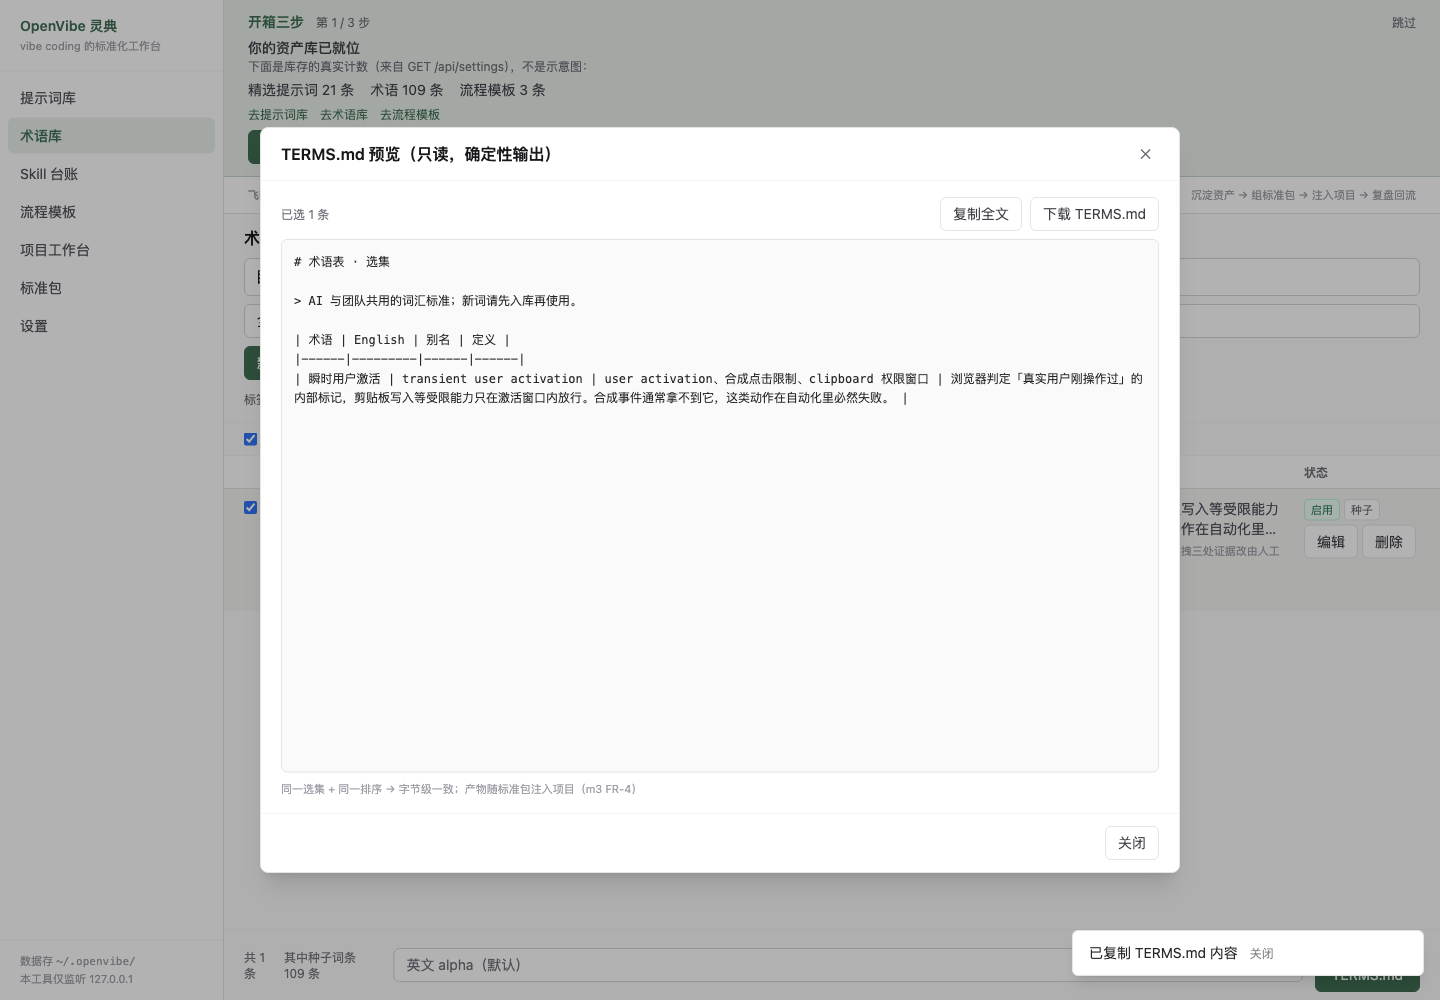
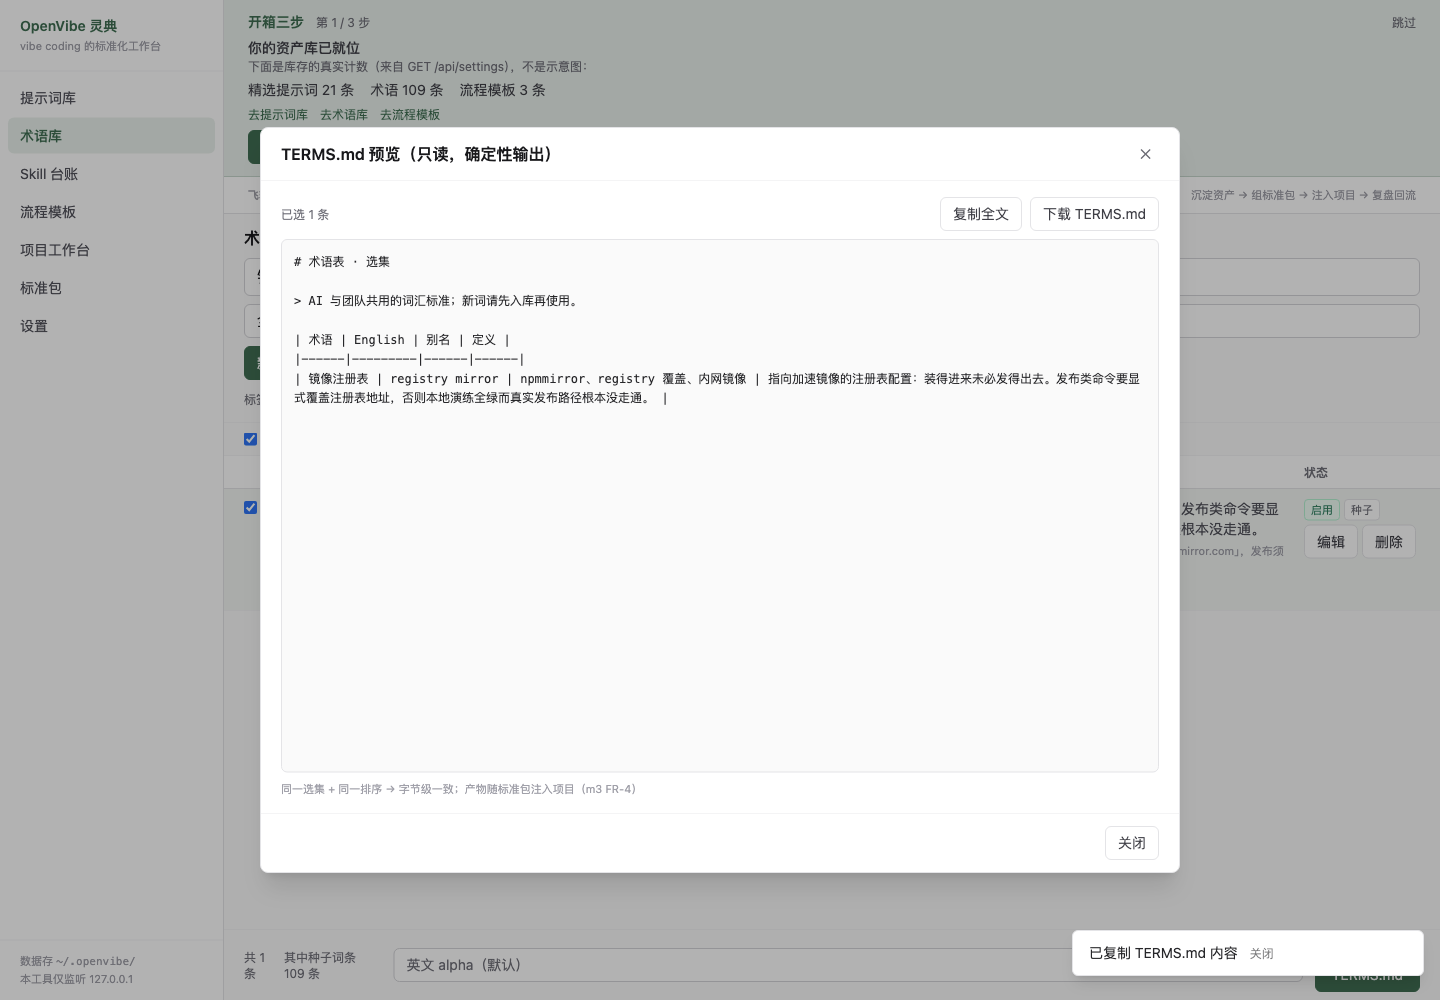
docs: DEV-0042 + 队列 ⑰ 两条收口 —— 09-23 证据在本树重砸（装包 51 断言 0 FAIL / 三条冒烟有头 FAIL=0 SKIP=0）
重砸读驱动器而不只读它的输出，抓到一件比数字要紧的事：publish-walk.mjs 钉的是「四命令齐」，
而发布说明对外写五命令 + 「退场有闸」——clean 是 T10 才有的命令，那句承诺在装包形态此前零覆盖。
补 6 支退场断言（dry-run 零写入零备份 / 真删八项并收尾 lock / 删前八份逐字节备份），45 → 51。

同时就地改掉队列 ① 行里 [DEV-0040] 已推翻却漏回单源的那句「改内容会动 golden」。

Changed region(s): [[0.1875, 0.372, 0.7812, 0.403], [0.8125, 0.496, 0.875, 0.558]]

diff --git a/DEV_LOG.md b/DEV_LOG.md
@@ -1037,3 +1037,22 @@
 - **未验证面净变化**: **净增 0，但一条旧背书被撤销、新立 ⑰**。撤销：发布说明不能再引用「三条冒烟 = 本树证据」。新立 **⑰** = 在真发布（②）之前必须重砸两件事——(a) `docs/devlog-evidence/DEV-0025/three-smokes.mjs` 在当前树重跑（有头 FAIL=0 SKIP=0），(b) `pnpm pkg:cli` + `npm pack` 的装包产物走查（现表里那 5 行仍实测于 `3e852c2`）。win32 的 8 支门控 skip 继续挂未验证面，不并入「全绿」。
 - **潜在风险**: ① **tag 已对外可见 ⇒ 以后再移就是 `git push --force refs/tags/v0.1.0`（外部、难逆）**，所以任何「tag 自带文档」的改动都必须排在推 tag 之前。② `v0.1.0` 的**语义已变**（09-23 那份 → 含 T10 的现在这份），而 `dev-plan` / `tasks.md` / PRD 里的历史行仍写「tag 在 `3e852c2`」——读作带日期的历史，不入修订。③ 本轮把「首个可安装版本」这类**前瞻性安装口径**留在了发布说明顶部，只加了「尚未 publish」的限定；真发布若再拖，`npx` 三条会一直是「发布后的用法」而不是可执行步骤。
 - **owner 手上未收的**: 队列见 `docs/decisions.md`（③ 已收，⑦ 记到第 5 次推送与第 1 次 tag 推送，新立 ⑰）。**① 的 19 行结论列仍 0 已签**；② 真 `npm publish` 需 owner 放行且被 ⑰ 挡在前面。
+
+## [DEV-0042] ⑰ 两条 09-23 证据在新树重砸（(b) 装包形态 + (a) 三条真输入冒烟）· **重砸抓到的一件比数字更要紧的事：对外承诺的「退场有闸」在装包形态此前零覆盖**
+
+- **时间**: 2026-09-26 17:50–19:05 +0800。采样凭据：起点 HEAD `c28c2b1`；本轮工作树 3 文件（驱动器 + 走查日志 + 发布说明）。
+- **类型**: §0.3 **C 级 · 零产品代码**。落点全在 `docs/`（证据驱动器、发布说明、队列单源）。**`content/seed` 一行未动**（① 等 owner 逐条签）。
+- **关联文件**: `docs/devlog-evidence/DEV-0020/publish-walk.{mjs,txt}`、`docs/devlog-evidence/DEV-0025/{three-smokes-headed.txt,0*-headed-*.png}`（⑰(a) 覆盖）、`docs/release-notes/v0.1.0.md`、`docs/decisions.md`（⑰ 两条收口、① 就地改正一句已被推翻的话）。
+- **问题描述**: owner 裁「先落 ①，再把 tag 强移到新树（一次到位）」。tag 强移与真发布 ② 的共同前置是 ⑰ 的两条重砸，其中 (b) = 装包产物证据仍实测于 `3e852c2`（2026-09-23），不重砸则「装包产物才算数」这条发布口径无法兑现；(a) = 三条真输入冒烟的 09-24 那次靠「被测构建与 v0.1.0 产品代码同源」成立，而该句已被 `[DEV-0041]` 复算证伪（差 30 个产品文件）。
+- **实现思路（三步，每步都留了复算入口）**:
+  1. **先按原样重砸，不偷改断言集**：`pnpm pkg:cli` → 驱动器复跑 → **45 项 / 0 FAIL**（17:54 那一轮）。数字与 09-23 同项数，才允许说「同一张嘴在新树又说了一遍」。
+  2. **重砸时读驱动器，不只读它的输出**：`publish-walk.mjs:271` 钉的是「**四命令齐**（serve / sync / scan / diff）」，而发布说明对外写的是**五命令 + 一句「退场有闸」**。`clean` 是 T10 才注册的命令，09-23 那支树根本没有 ⇒ **那句对外承诺在装包形态零覆盖**：仓库形态有 28 支 `CLI-CLEAN` 用例（`apps/cli/test/clean.test.ts` 的 `it()` 实测数），可 bundle 之后少内联了哪个模块，那 28 支一概测不到。
+  3. **补 6 支退场断言（45 → 51）后复跑**：五命令齐 / `clean --dry-run` 退出码 0 且 `ok=true` / 计划删 8 项且不多认（`inSyncRemoved=0`、`foreign=0`、`absent=0`）/ **dry-run 零写入零备份**（八项产物 sha256 逐字节不变 + lock 在位 + 不产生 `backup/` + `backedUpTo=null`）/ `--yes` 退出码 0 且 `exitCode=0` / 真删八项并 `cleaned=true`（lock 一并收尾）/ **删前八份逐字节备份**（备份目录内每份哈希等于删前值）。退场腿刻意排在 §4 计时**之后**，让「用户侧计时」那行仍与 09-23 可比。
+  4. **⑰(a) 同日跟跑**（同一棵树的另一半证据，不拆成两轮）：`HEADLESS=0 CDP_PORT=9351 node docs/devlog-evidence/DEV-0025/three-smokes.mjs` → 驱动器自己 `pnpm --filter @openvibe/web build`、自己起 `serve --port 0` 于 `ov-smoke-42547` 沙箱，**SM-1 / SM-2 / SM-3 三条各自独立判过，FAIL=0 SKIP=0**，末行 `# HEAD c28c2b1（工作树脏 9 文件）· Chrome headed`。三条的字节级判据各自复核：SM-1h `pbpaste` 62 字符 == 磁盘 .md 62 字符；SM-2g 复制全文后 `pbpaste` 221 字符 == 服务端 `render-terms-md` 221 字符（DOM 与 API 同源 221）；SM-3e sync 后 lock 探测**无人工点击**自动点亮。收尾断言：serve 与 Chrome 双 pid 判死、`rmSync` 后本进程沙箱不存在、**剪贴板已还原为起跑前内容**（86 字符，内容不入日志）。三张同名截图随本轮覆盖。
+- **测试验证**: 装包走查 **51 项断言 / 0 FAIL**，日志末行 `# HEAD c28c2b1（工作树脏 2 文件）`（脏 2 = 驱动器与本日志自身，如实入档）。现测锚点：`cli.js` **3,588.67 kB / 565 模块 / 0 条 esbuild 警告**（09-23：3,567.58 kB / 562 模块）、tarball 1.15 MB、`dist/seed` 播种 **terms=109**、八项产物字节与 09-23 **逐字节相同**（14525 ×4 / 14609 / 14597 / 25464 / 482 B，lock 1476 B）⇒「本轮零种子改动」由产物侧反证。入口 chunk 装包后经 HTTP 实取 **293,066 B**，与 `bundle:check` 的 293.07 kB 同值（两条独立路径对上）。`lint` 复跑 rc=0（`eslint .` 覆盖 `docs/**/*.mjs`，见 `eslint.config.js:69`）。**四闸随后在本树全部复跑，rc 全 0**：`typecheck`（双 tsconfig 各一遍）/ `test` **48 files · 449 tests · 0 skipped**（19:12）/ `seed:check`（terms ≥100、`TERMS.md` 渲染 **109 行**、templates 3/7/4、prompts 20 唯一 title）/ `bundle:check`（入口 **293.07 kB ≤ 300**、23 chunk 最大 **347.45 kB ≤ 500**）。**两条独立路径对上了**：门禁侧 `index-B0iRKJWT.js 293.07 kB` 与装包后 HTTP 实取的 `assets/index-B0iRKJWT.js 293,066 B` 同名同值。
+- **被推翻（本轮 2 条，一条差点变成假缺陷）**:
+  ① 我为验证「`clean` 到底进没进 bundle」，先拿 `grep -c` 数中文串，得 **0**，据此几乎要上报「**发布包漏打 T10 命令**」这一子虚乌有的产品缺陷。真相是**本仓 bundle 里的非 ASCII 全部被转义成大写十六进制 `\uXXXX`**（实测凭据：串内 `OpenVibe\uFF08\u7075\u5178\uFF09`；`scripts/build-cli.ts` 未设 `charset`，即 esbuild 0.28.2 的默认行为）⇒ raw 搜为空、按小写 `\u672c` 搜也为空，两次都像「东西没打进去」。改用 node 把 `\uXXXX` 解码回字符后中文串命中 1/1/2 次，`runClean` 亦在 bundle 内，缺陷不存在。**「空输出的成因」清单再添一条，且这一次它指向的是假缺陷而非假绿**（承 `[DEV-0039]` 的 `jobs[].id`、`[DEV-0040]` 的 BSD `tr`、`[DEV-0041]` 的 `gh run watch`）。
+  ② **队列 ① 行里还留着 `[DEV-0040]` 已经推翻的那句**「改内容会动 golden」。我是在给 ⑰ 写落点时读到的：上一轮的推翻落盘在 devlog 与预筛文件 4b 节，**却没有回到队列单源**。队列是 owner 裁决时逐行读的那张表——单源里留一句假话比日志里留一句更贵。已就地改成真实约束：`tests/golden/fixtures.ts` 头部声明夹具**不读 `content/seed`** ⇒ 改种子是纯 C 级；只剩 `seed:check`（去空白 ≥20 字是下限；terms 配额 ≥100 现 109 ⇒ 删预算 9 条；prompts 精确 =20 ⇒ 删 1 即红）与 `SRV-EST`（十条合计 1,725 B，服务端侧 14,890 vs 阈值 12,000）两道闸，`C-87` 的版本升位仅在发布后生效。
+- **未验证面净变化**: **⑰ 两条全收，净减一整项**。(b) 装包形态 51 断言 / 0 FAIL；(a) 三条真输入冒烟本树有头 FAIL=0 SKIP=0。发布说明「测量口径」表现在只剩 tarball 的「36 个文件 / 解包 4.9 MB」一格仍属 `3e852c2`，已就地标注为未复跑（那一格只由 `npm publish --dry-run` 出，而 dry-run 属 ② 的动作，不在本轮范围）。win32 的 8 支门控 skip 继续挂未验证面，不并入「全绿」。**新增一条自指风险**：`v0.1.0` 的 tag 正文逐字抄了「45 断言 0 FAIL」，断言数一改那句话就腐烂。
+- **潜在风险**: ① **退场腿是单向的**：走完它，沙箱里八项产物与 lock 已不在，之后任何「diff 判 clean」的断言必红。本轮把它排在计时之后、收尾之前；后来人扩腿时别往前挪。② **断言里的「8 项」随 default 包变**：包组装规则一变、或 owner 签 ① 后删掉某条资产，这个数就得跟着改。与 `SRV-EST` 同口径——**它红的时候是信号不是故障**，别顺手把断言改成 `>=`。③ **tag 正文与断言数已耦合**：下一次移 tag（owner 已裁的「强移到新树」）写正文时要么改成 51、要么按 §13-8 干脆不抄数。
+- **owner 手上未收的**: 队列见 `docs/decisions.md`（⑰ 记 (b) 落地；① 行就地改正并记下「逐条签」的裁决方式）。**① 的 19 行结论列仍 0 已签**；⑰ 只剩 (a)；`c28c2b1` 与本条所属的文档 commit **尚未推**（第 6 次推送需另行放行）。

diff --git a/docs/decisions.md b/docs/decisions.md
@@ -10,7 +10,7 @@
 
 | # | 事项 | 状态 | 现状与裁决（实测） | 落点 | 它阻塞什么 |
 |---|---|---|---|---|---|
-| ① | 种子内容审校裁决 | **待签** | 已按 owner 裁定「预筛短名单」交付：19 行（建议改 10 / 建议留 9），每条带现文·问题·建议改法·凭据。2026-09-26 13:48 现测**结论列 19 行全空 = 0 已签**。其余 47 条按「机器预筛 + owner 抽查」处理，不逐条签 | `docs/devlog-evidence/DEV-0037/seed-prescreen.md` 第 4 节；判据 `…/seed-prescreen.mjs`（可复算，基线 `6c33b50`） | `content/seed/` 的任何改动。种子内容属 C 级，但 `C-87` 记有词条与 default 包指纹耦合 ⇒ 改内容会动 golden，**改前须实测差异面并跑五闸** |
+| ① | 种子内容审校裁决 | **待签** | 已按 owner 裁定「预筛短名单」交付：19 行（建议改 10 / 建议留 9），每条带现文·问题·建议改法·凭据。2026-09-26 13:48 现测**结论列 19 行全空 = 0 已签**。其余 47 条按「机器预筛 + owner 抽查」处理，不逐条签。**签署方式 owner 已裁（同日 18:4x）：逐条签，19 行结论列由 owner 本人填** ⇒ 落改在签字回来之前不动一个种子字节 | `docs/devlog-evidence/DEV-0037/seed-prescreen.md` 第 4 节；判据 `…/seed-prescreen.mjs`（可复算，基线 `6c33b50`）；闸余量实测在第 4b 节 | `content/seed/` 的任何改动。**本行原写「改内容会动 golden」，已被 `[DEV-0040]` 实测推翻并就地改正**：`tests/golden/fixtures.ts` 头部即声明夹具**不读 `content/seed`**（输入自包含，以免 owner 审校种子误伤契约快照）⇒ 改种子是**纯 C 级、不触 A 级冻结面**。真实约束只剩两道闸，余量已量出：`seed:check`（definition 去空白 ≥20 字是**下限**，十条现值 46–66 字 ⇒ 最小可砍 26 字；配额 terms ≥100 现 109 ⇒ **删的预算只有 9 条**，且 prompts 精确 =20 ⇒ **删 1 即红**）与 `SRV-EST`（十条 definition 合计 1,725 B，服务端侧实量 14,890 vs 阈值 12,000 ⇒ 十条全部腰斩也到不了线下）。`C-87` 的版本升位只在**发布后**生效：v0.1.0 真发出后改种子即升为 B 级，须同步升 `DEFAULT_PACK_VERSION` |
 | ② | 真 `npm publish` | **可做待排**（owner 手上） | 未发。发布链的实认证据目前为 0——只有 `bundle:check` 的入口 293.07 kB / 23 chunk 最大 347.45 kB 与本地 `pack` 产物 | `docs/tasks.md` 发布段 | 「装包产物才算数」这条发布口径；`docs/tasks.md` 的发布传播清单（渠道帖 / demo GIF / awesome PR）前置即本条 |
 | ③ | 推 tag `v0.1.0` | **已裁已落**（2026-09-26 16:20） | owner 裁「先推文档 → 等三平台绿 → 把 tag 重打在有 CI 凭据的那笔并推」。落地：三笔推送 `7c00bb9` / `7a4d551` / `5f7fd3c` **各自独立**拿到三 job `success`，tag 遂从 `3e852c2`（旧 annotated 对象 `f6e5335`）移到 `5f7fd3c`（新对象 `cd8102af`）并**首次**推远端，远端 deref（`git ls-remote --tags` 的 `refs/tags/v0.1.0^{}` 一行）已复核为 `5f7fd3c`。落后数不再抄进本表（取数 `git rev-list --count v0.1.0..main`）。**动手前的自洽性检查抓到 8 处随 T10 腐烂的对外断言**（发布说明 6 + README 2，含一条**已被证伪的「被测构建与 v0.1.0 产品代码同源」**——复算命令现测 30 文件 / +3028 −41），已随 `7a4d551`、`5f7fd3c` 定点修订；历史登记行（`dev-plan` 实测收口、`DEV-0022/retro.md`、PRD 版本链）按「不回改」保留。**代价**：tag 已对外可见 ⇒ 此后移动属 `git push --force refs/tags/v0.1.0` 级外部动作，任何「tag 自带文档」的改动必须排在推 tag 之前 | `docs/release-notes/v0.1.0.md`、`README.md`、`[DEV-0041]` | 已解：远端有了指向 CI 绿树的版本锚点。**未解**：`v0.1.0` ≠ 可安装（npm 仍未发），真发布前置见 ⑰ |
 | ④ | D15 两周观察窗 | **待裁** | 无起点。要 owner 定「从哪一天算」：推 tag 日 / 真发布日 / 本笔审计日 | `docs/specs/m5-project-flow.md` 版本行的条件项、`docs/specs/onboarding.md` 证据口径 | dogfooding 证伪线的判定；窗未开 ⇒ 该条件项长期挂空 |
@@ -26,14 +26,14 @@
 | ⑭ | 遥测适配器 timeout 路径下的泄漏清扫 | **已裁已落** | `[DEV-0031]`：根因不是「`afterEach` 没跑」，是**拒签路径根本不收孩子**；一次性双跑探针给出差集 | `[DEV-0031]` | — |
 | ⑮ | ⑭ 修复的常驻断言要不要补 | **已裁已落** | `[DEV-0036]`：补 TF-14。动手前实测——删掉那行 `proc.kill()` 曾让全文件 14 支仍绿，现在只有 TF-14 会红 | `[DEV-0036]` | — |
 | ⑯ | `sync.lock` 的 0 字节空窗竞态 | **已裁已落** | `[DEV-0035]`：**修的是读者不是写者**；让路方从「约 7% 波次报不出赢家 pid」变成「100 波 0 异常」 | `[DEV-0035]` | — |
-| ⑰ | **新立**：两条「09-23 那支树的证据」要在新树重砸 | **可做待排**（挡在 ② 之前） | 起因是 `[DEV-0041]` 打 tag 前的自洽性检查：发布说明里那句「被测构建与 v0.1.0 产品代码同源」经复算命令证伪（`3e852c2..HEAD` 现测 **30 文件 / +3028 −41 行**，全是 P1.1 T10 的产品代码）⇒ 两件事的**适用面**同时收缩：(a) `docs/devlog-evidence/DEV-0025/three-smokes.mjs` 三条真输入冒烟（有头 FAIL=0 SKIP=0）不再是本树证据，需在新树重跑；(b) 「测量口径」表里 5 行装包产物数（45 断言 / tarball / `dist/cli.js` / 两段计时）仍实测于 `3e852c2`，需 `pnpm pkg:cli` + `npm pack` 重走查。文档已就地标注收缩，**没有假装通过** | `docs/release-notes/v0.1.0.md` 的「测量口径」「未验证面」两节；驱动器 `…/DEV-0025/three-smokes.mjs` | 真发布 ② ——「装包产物才算数」这条发布口径在没重砸之前无法兑现 |
+| ⑰ | **新立**：两条「09-23 那支树的证据」要在新树重砸 | **已裁已落**（2026-09-26 19:09，两条全收） | 起因是 `[DEV-0041]` 打 tag 前的自洽性检查：发布说明里那句「被测构建与 v0.1.0 产品代码同源」经复算命令证伪（`3e852c2..HEAD` 现测 **30 文件 / +3028 −41 行**，全是 P1.1 T10 的产品代码）⇒ 两件事的**适用面**同时收缩。<br>**(b) 装包产物证据：已在新树重砸**（2026-09-26 19:00，`c28c2b1`，工作树脏 2 文件）——`pnpm pkg:cli` + 驱动器复跑，**51 项断言 / 0 FAIL**：`dist/cli.js` 3,588.67 kB · 565 模块 · 0 警告，tarball 1.15 MB，入口 chunk 装包后 HTTP 实取 293,066 B 与门禁同值，用户侧 0.8 s，构建+pack+装包 6.7–9.6 s（本机两轮，昨日 27.6–52.0 s）。**重砸时顺手补了 6 支新断言**：旧驱动器只钉「四命令齐」，而 v0.1.0 对外承诺五命令 + 「退场有闸」，那句承诺在装包形态**此前零覆盖**（`clean` 是 T10 才有的命令，09-23 那支树根本没有）。现钉：`clean --dry-run` 退出码 0 且零写入零备份（八项产物逐字节不变、lock 在位、无 backup 目录）、`--yes` 真删八项并收尾 lock、**删前八份逐字节备份**。<br>**(a) 三条真输入冒烟：已收**（同日 19:09）——本树有头 **SM-1 / SM-2 / SM-3 各自独立判过，FAIL=0 SKIP=0**，三条的字节级判据各复核（`pbpaste` 62 字符 == 磁盘 .md 62 / 复制全文 221 == 服务端 `render-terms-md` 221 且 DOM 同源 / sync 后 lock **无人工点击**自动点亮），收尾钉住双 pid 判死与剪贴板还原（86 字符，内容不入档） | `docs/release-notes/v0.1.0.md` 的「测量口径」（已按 19:00 现测更新）「未验证面」两节；驱动器与凭据 `…/DEV-0020/publish-walk.{mjs,txt}`（五命令 + 退场腿）、`…/DEV-0025/{three-smokes.mjs,three-smokes-headed.txt,0*-headed-*.png}` | 真发布 ② 的证据前置**已清**：两条 09-23 证据都在本树重砸过。**剩余前置只剩 ① 的落改**（owner 已裁顺序：① → `git push --force refs/tags/v0.1.0` 移到新树 → ②）。附 `[DEV-0042]` |
 
-## 净状态（2026-09-26 16:20 现测）
+## 净状态（2026-09-26 19:15 现测）
 
 - **待裁 5**：④ ⑤ ⑥ ⑧ ⑨
-- **待签 1**：①
-- **可做待排（owner 手上，不需裁决）2**：② ⑰
+- **待签 1**：①（签署方式已裁「逐条签」，19 行结论列仍 0 已签）——**它现在是 ② 的最后一个前置**
+- **可做待排（owner 手上，不需裁决）1**：② 真 `npm publish`
 - **部分授权 1**：⑦（提交已授权；推送需逐次放行，已用到第 5 次）
-- **已裁已落 8**：③ ⑩ ⑪ ⑫ ⑬ ⑭ ⑮ ⑯
+- **已裁已落 9**：③ ⑩ ⑪ ⑫ ⑬ ⑭ ⑮ ⑯ ⑰
 
 `①–⑰` 之外没有隐藏项：`[DEV-0038]` 那轮体检新增的两件事（三处文档状态腐烂、本队列文件）属 C 级就地动作，不入队列；`[DEV-0041]` 这轮新增的 ⑰ 入队列，因为它要的是**重跑证据**而不是改文档。
